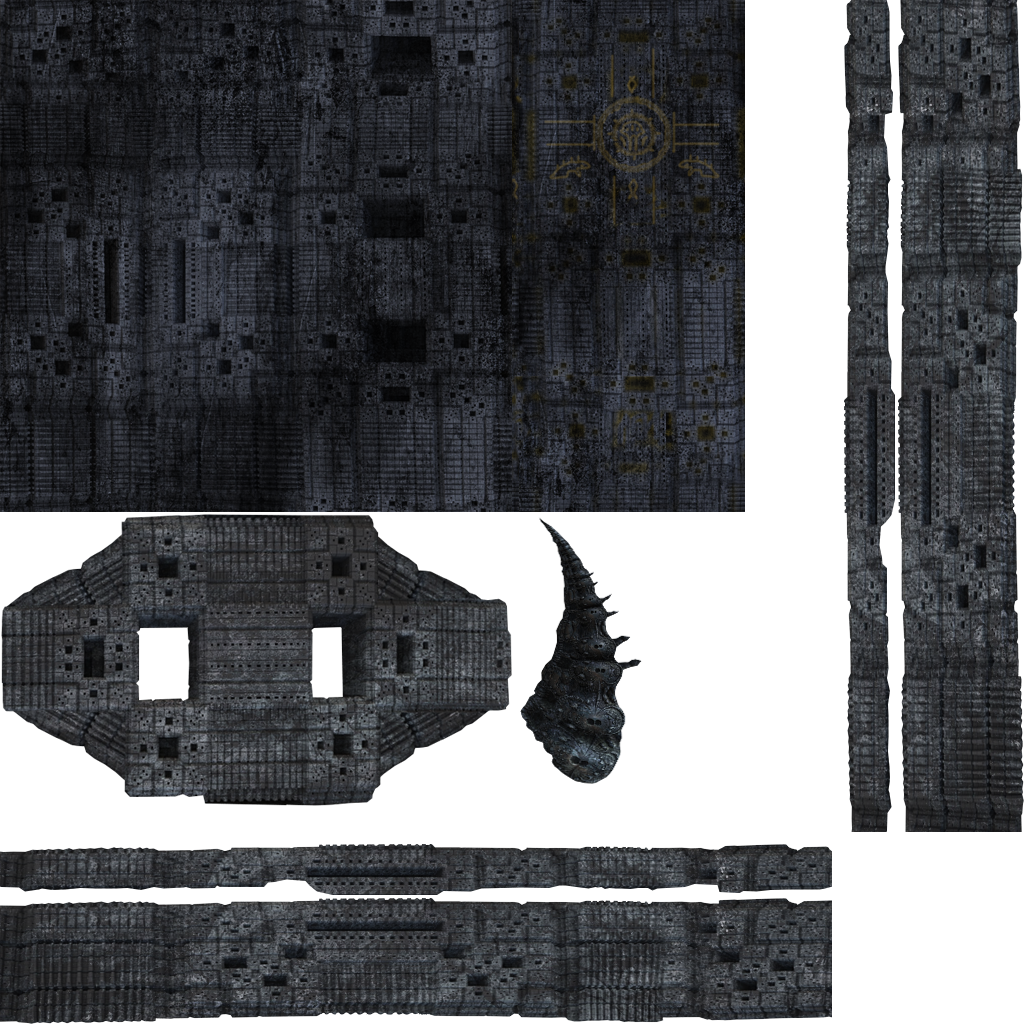
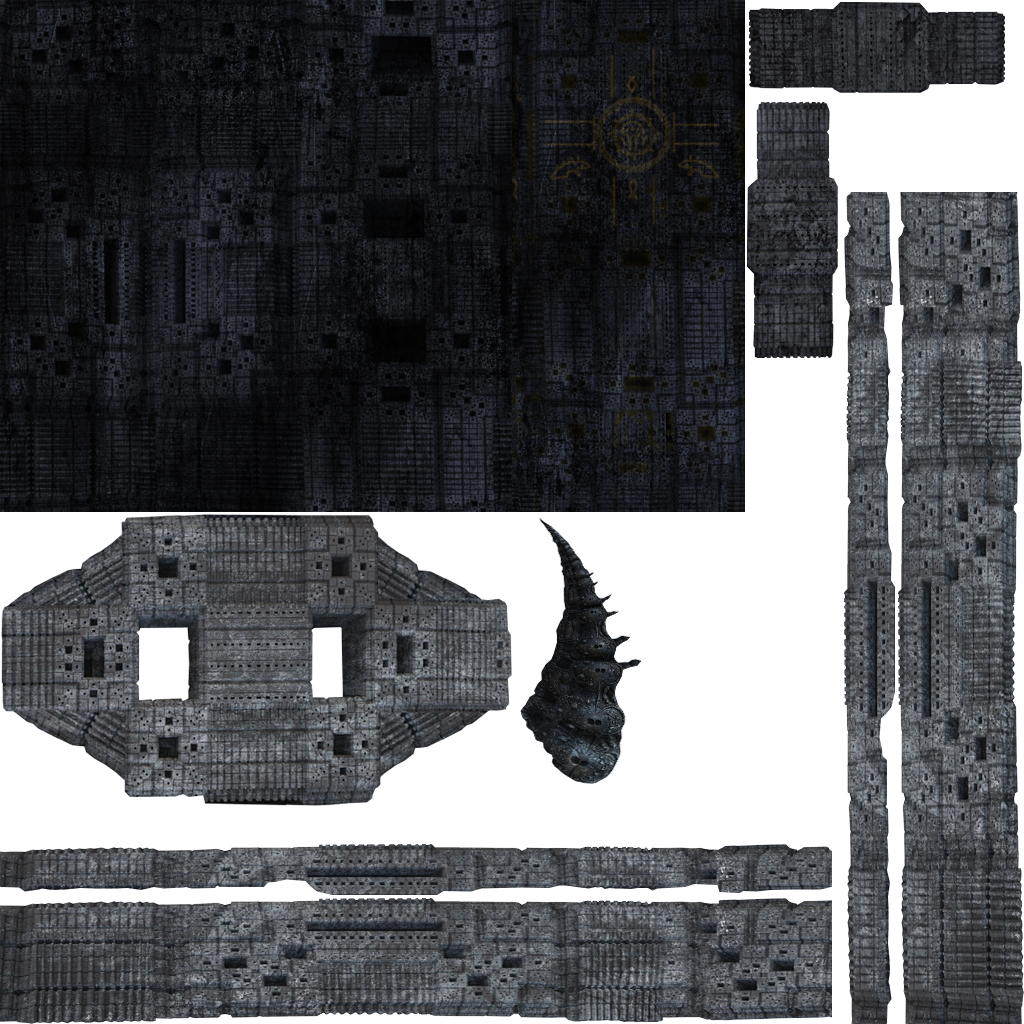
Motion sensor component, ruins have doors and hatches with randomly placed motion sensors that close them automatically

Changed region(s): [[0.0312, 0.0, 1.0, 1.0], [0.0, 0.5, 0.5, 0.7812]]

diff --git a/Subsurface/Source/Items/Components/Signal/MotionSensor.cs b/Subsurface/Source/Items/Components/Signal/MotionSensor.cs
@@ -1,0 +1,91 @@
+using Microsoft.Xna.Framework;
+using System;
+using System.Collections.Generic;
+using System.Linq;
+using System.Text;
+using System.Threading.Tasks;
+using System.Xml.Linq;
+
+namespace Barotrauma.Items.Components
+{
+    class MotionSensor : ItemComponent
+    {
+        private const float UpdateInterval = 0.1f;
+
+        private string output, falseOutput;
+
+        private bool motionDetected;
+
+        private float range;
+
+        private float updateTimer;
+
+        [InGameEditable, HasDefaultValue(0.0f, true)]
+        public float Range
+        {
+            get { return range; }
+            set
+            {
+                range = MathHelper.Clamp(value, 0.0f, 500.0f);
+            }
+        }
+
+        [InGameEditable, HasDefaultValue("1", true)]
+        public string Output
+        {
+            get { return output; }
+            set { output = value; }
+        }
+
+        [InGameEditable, HasDefaultValue("", true)]
+        public string FalseOutput
+        {
+            get { return falseOutput; }
+            set { falseOutput = value; }
+        }
+
+        public MotionSensor(Item item, XElement element)
+            : base (item, element)
+        {
+            IsActive = true;
+        }
+
+        public override void Update(float deltaTime, Camera cam)
+        {
+            if (motionDetected)
+            {
+                item.SendSignal(1, output, "state_out");
+            }
+            else if (!string.IsNullOrWhiteSpace(falseOutput))
+            {
+                item.SendSignal(1, falseOutput, "state_out");
+            }
+
+            updateTimer -= deltaTime;
+            if (updateTimer>0.0f) return;
+
+            motionDetected = false;
+            updateTimer = UpdateInterval;
+
+            if (item.body != null && item.body.Enabled)
+            {
+                if (Math.Abs(item.body.LinearVelocity.X) > 0.01f || Math.Abs(item.body.LinearVelocity.Y) > 0.1f)
+                {
+                    motionDetected = true;
+                }
+            }
+
+            foreach (Character c in Character.CharacterList)
+            {
+                if (Math.Abs(c.WorldPosition.X - item.WorldPosition.X) < range &&
+                    Math.Abs(c.WorldPosition.Y - item.WorldPosition.Y) < range)
+                {
+                    if (!c.AnimController.Limbs.Any(l => l.body.FarseerBody.Awake)) continue;
+
+                    motionDetected = true;
+                    break;
+                }                
+            }
+        }
+    }
+}

diff --git a/Subsurface/Source/Map/Levels/Ruins/RuinGenerator.cs b/Subsurface/Source/Map/Levels/Ruins/RuinGenerator.cs
@@ -412,6 +412,42 @@ namespace Barotrauma.RuinGeneration
                 }
             }
 
+            var sensorPrefab = ItemPrefab.list.Find(ip => ip.Name == "Alien Motion Sensor") as ItemPrefab;
+            var wirePrefab = ItemPrefab.list.Find(ip => ip.Name == "Wire") as ItemPrefab;
+           
+
+            foreach (Corridor corridor in corridors)
+            {
+                var door = RuinStructure.GetRandom(corridor.IsHorizontal ? RuinStructureType.Door : RuinStructureType.Hatch, Alignment.Center);
+                if (door == null) continue;
+
+                var item = new Item(door.Prefab as ItemPrefab, corridor.Center - new Vector2(door.Prefab.sprite.size.X, -door.Prefab.sprite.size.Y)/2.0f, null);
+                item.MoveWithLevel = true;
+
+                item.GetComponent<Items.Components.Door>().IsOpen = Rand.Range(0.0f, 1.0f, false) < 0.8f;
+
+                if (sensorPrefab == null || wirePrefab == null) continue;
+
+                var sensorRoom = corridor.ConnectedRooms.FirstOrDefault(r => r != null && rooms.Contains(r));
+                if (sensorRoom == null) continue;
+
+                var sensor = new Item(sensorPrefab, new Vector2(
+                    Rand.Range(sensorRoom.Rect.X, sensorRoom.Rect.Right, false), 
+                    Rand.Range(sensorRoom.Rect.Y, sensorRoom.Rect.Bottom,false)), null);
+                sensor.MoveWithLevel = true;
+
+                var wire = new Item(wirePrefab, sensorRoom.Center, null).GetComponent<Items.Components.Wire>();
+                wire.Item.MoveWithLevel = false;
+
+                var conn1 = item.Connections.Find(c => c.Name == "set_state");
+                conn1.AddLink(0, wire);
+                wire.Connect(conn1, false);
+
+                var conn2 = sensor.Connections.Find(c => c.Name == "state_out");
+                conn2.AddLink(0, wire);
+                wire.Connect(conn2, false);
+            }
+
             return shapes;
         }
                 

diff --git a/Subsurface/Source/Items/Components/Door.cs b/Subsurface/Source/Items/Components/Door.cs
@@ -127,13 +127,14 @@ namespace Barotrauma.Items.Components
            // isOpen = false;
             foreach (XElement subElement in element.Elements())
             {
+                string texturePath = ToolBox.GetAttributeString(subElement, "texture", "");
                 switch (subElement.Name.ToString().ToLowerInvariant())
                 {
                     case "sprite":
-                        doorSprite = new Sprite(subElement, Path.GetDirectoryName(item.Prefab.ConfigFile));
+                        doorSprite = new Sprite(subElement, texturePath.Contains("/") ? "" : Path.GetDirectoryName(item.Prefab.ConfigFile));
                         break;
                     case "weldedsprite":
-                        weldedSprite = new Sprite(subElement, Path.GetDirectoryName(item.Prefab.ConfigFile));
+                        weldedSprite = new Sprite(subElement, texturePath.Contains("/") ? "" : Path.GetDirectoryName(item.Prefab.ConfigFile));
                         break;
                 }
             }
@@ -336,7 +337,7 @@ namespace Barotrauma.Items.Components
                 pos.Y = -pos.Y;
 
                 spriteBatch.Draw(doorSprite.Texture, pos,
-                    new Rectangle(doorSprite.SourceRect.X, (int)(doorSprite.size.Y * openState),
+                    new Rectangle(doorSprite.SourceRect.X, (int)(doorSprite.SourceRect.Y + doorSprite.size.Y * openState),
                     (int)doorSprite.size.X, (int)(doorSprite.size.Y * (1.0f - openState))),
                     color, 0.0f, doorSprite.Origin, 1.0f, SpriteEffects.None, doorSprite.Depth);  
             }
@@ -346,6 +347,7 @@ namespace Barotrauma.Items.Components
         public override void OnMapLoaded()
         {
             LinkedGap.ConnectedDoor = this;
+            LinkedGap.Open = openState;
 
             Vector2[] corners = GetConvexHullCorners(doorRect);
 

diff --git a/Subsurface/Source/Map/Levels/Level.cs b/Subsurface/Source/Map/Levels/Level.cs
@@ -175,10 +175,11 @@ namespace Barotrauma
             Rand.SetSyncedSeed(ToolBox.StringToInt(seed));
 
             float brightness = Rand.Range(1.0f, 1.3f, false);
-            backgroundColor = Color.Lerp(new Color(11, 18, 26), new Color(11, 26, 18), Rand.Range(0.0f, 1.0f, false)) * brightness;
-
-
+            backgroundColor = Color.Lerp(new Color(11, 18, 26), new Color(50, 46, 20), Rand.Range(0.0f, 1.0f, false)) * brightness;
             backgroundColor = new Color(backgroundColor, 1.0f);
+
+            float avgValue = (backgroundColor.R + backgroundColor.G + backgroundColor.G) / 3;
+            GameMain.LightManager.AmbientLight = new Color(backgroundColor*(40.0f/avgValue), 1.0f);
 
             float minWidth = Submarine.Loaded == null ? 0.0f : Math.Max(Submarine.Borders.Width, Submarine.Borders.Height);
             minWidth = Math.Max(minWidth, 6500.0f);
@@ -789,7 +790,7 @@ namespace Barotrauma
 
         public void Update (float deltaTime)
         {
-            if (Submarine.Loaded!=null)
+            if (Submarine.Loaded != null)
             {
                 WrappingWall.UpdateWallShift(Submarine.Loaded.WorldPosition, wrappingWalls);
             }
@@ -878,6 +879,8 @@ namespace Barotrauma
         {
             if (renderer!=null) renderer.Dispose();
             renderer = null;
+
+            ruins.Clear();
 
             for (int side = 0; side < 2; side++)
             {

diff --git a/Subsurface/Source/Map/Levels/Ruins/RuinStructure.cs b/Subsurface/Source/Map/Levels/Ruins/RuinStructure.cs
@@ -10,7 +10,7 @@ namespace Barotrauma.RuinGeneration
     [Flags]
     enum RuinStructureType
     {
-        Wall = 1, CorridorWall = 2, Prop = 4, Back = 8
+        Wall = 1, CorridorWall = 2, Prop = 4, Back = 8, Door=16, Hatch=32
     }
 
     class RuinStructure
